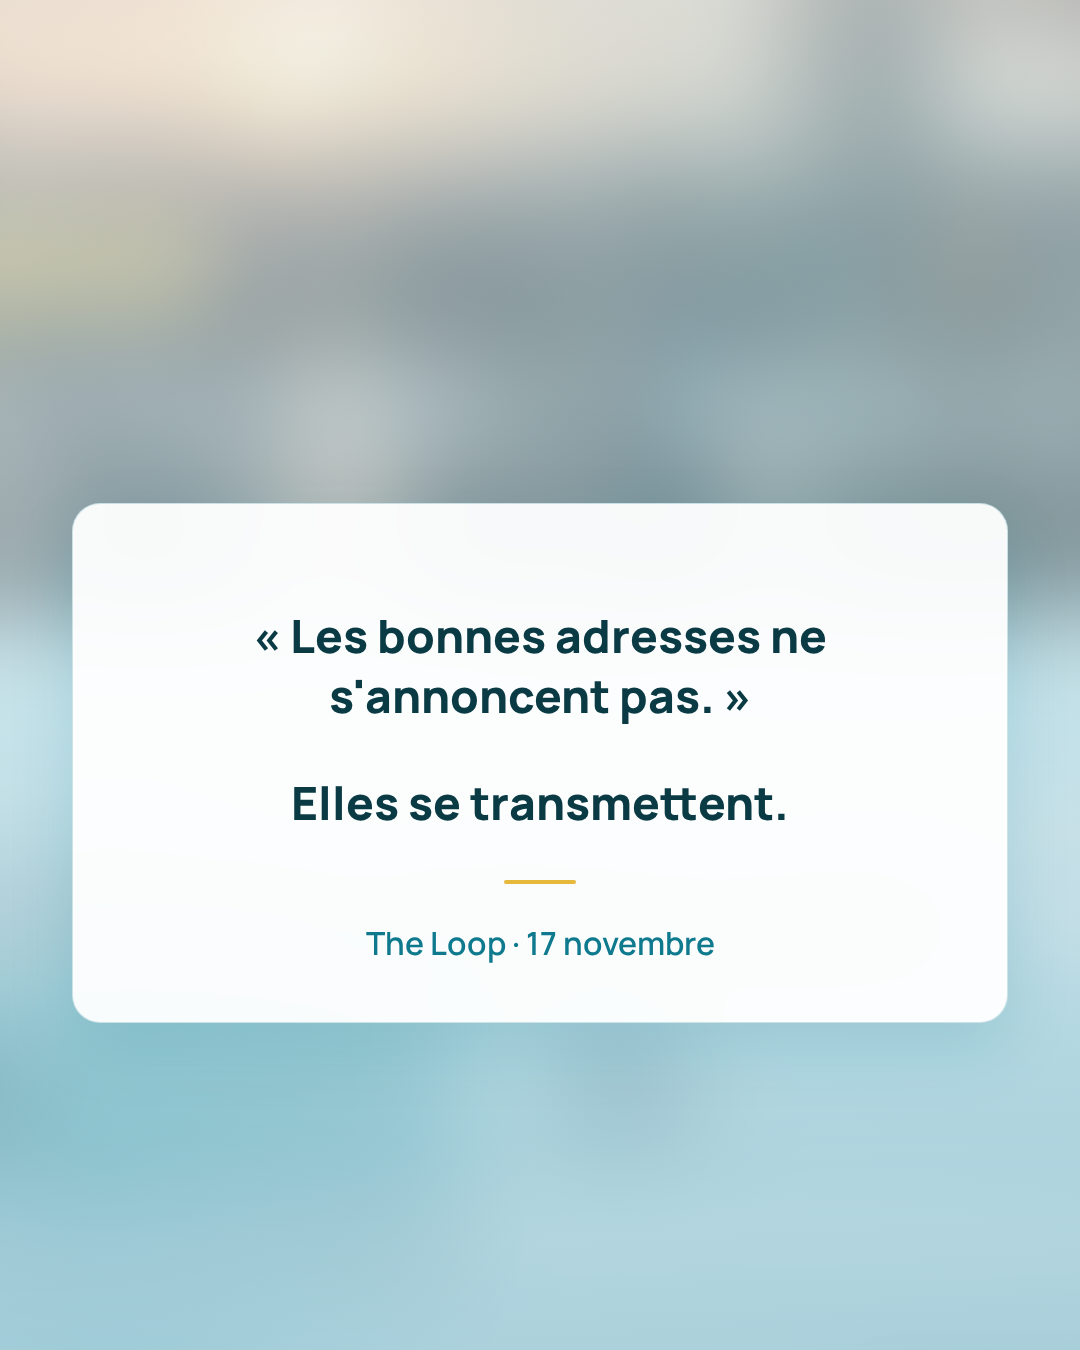
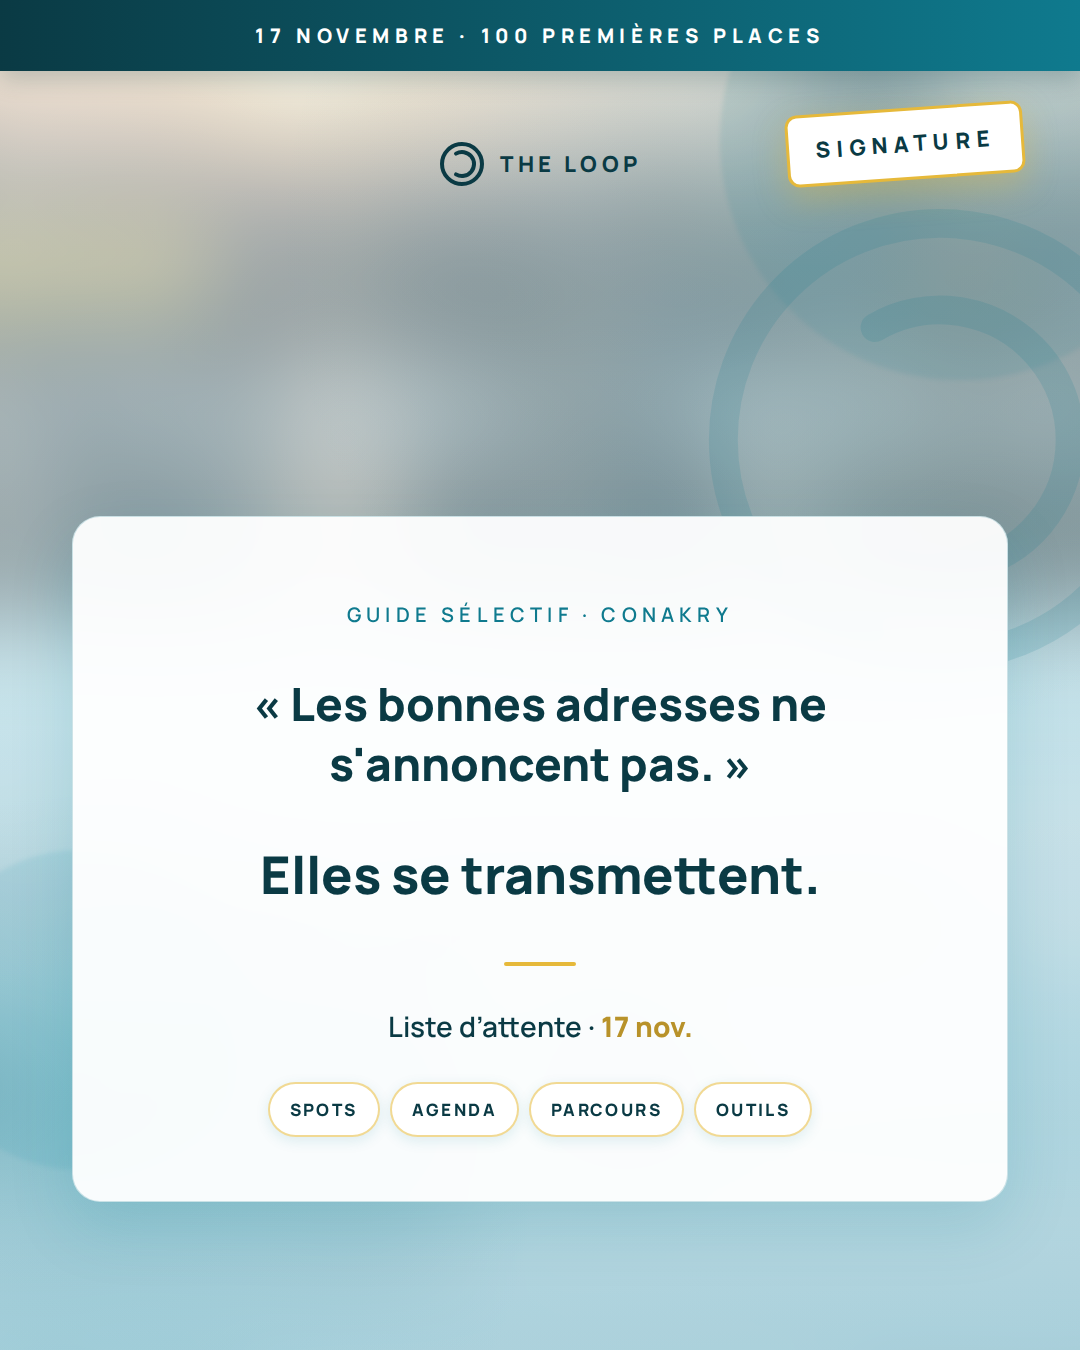
docs(com): fiche + visuel #2 signature 5/11 PUBLIER

diff --git a/docs/communication/lancement-2026/export-visuels-pack-acte-a-v4-light.html b/docs/communication/lancement-2026/export-visuels-pack-acte-a-v4-light.html
@@ -351,12 +351,24 @@
   <div class="slide">
     <div class="atmo" style="background-position:center 60%"></div>
     <div class="atmo-teal"></div>
-    <div class="inner" style="justify-content:center">
-      <div class="card" style="text-align:center">
+    <svg class="watermark" viewBox="0 0 36 36" fill="none"><circle cx="18" cy="18" r="15" stroke="#0F7A8E" stroke-width="2"/><path d="M 13.5 10.21 A 9 9 0 1 1 13.5 25.79" stroke="#0F7A8E" stroke-width="2" stroke-linecap="round"/></svg>
+    <div class="blobs"><div class="blob a"></div><div class="blob b"></div></div>
+    <div class="top-ribbon">17 novembre · 100 premières places</div>
+    <div class="stamp">SIGNATURE</div>
+    <div class="inner" style="justify-content:center;padding-top:140px">
+      <div class="mark-row" style="justify-content:center;margin-bottom:40px">
+        <svg width="48" height="48" viewBox="0 0 36 36" fill="none"><circle cx="18" cy="18" r="15" stroke="#0A3A44" stroke-width="3"/><path d="M 13.5 10.21 A 9 9 0 1 1 13.5 25.79" stroke="#0A3A44" stroke-width="3" stroke-linecap="round"/></svg>
+        <span>The Loop</span>
+      </div>
+      <div class="card" style="text-align:center;padding:64px 56px">
+        <p class="ey" style="margin-bottom:28px">Guide sélectif · Conakry</p>
         <p class="quote">« Les bonnes adresses ne s'annoncent pas. »</p>
-        <p class="quote gold" style="margin-top:16px">Elles se transmettent.</p>
-        <div class="rule" style="margin:36px auto"></div>
-        <p class="p" style="margin:0;color:var(--teal);font-weight:600">The Loop · 17 novembre</p>
+        <p class="quote gold" style="margin-top:20px;font-size:52px">Elles se transmettent.</p>
+        <div class="rule" style="margin:40px auto"></div>
+        <p class="p" style="margin:0;color:var(--deep);font-weight:600;font-size:28px">Liste d’attente · <span class="gold">17 nov.</span></p>
+        <div class="pillars" style="justify-content:center;margin-top:36px">
+          <span>Spots</span><span>Agenda</span><span>Parcours</span><span>Outils</span>
+        </div>
       </div>
     </div>
   </div>

diff --git a/docs/communication/lancement-2026/fiches/02-2026-11-05.md b/docs/communication/lancement-2026/fiches/02-2026-11-05.md
@@ -1,27 +1,42 @@
 # Fiche contenu #2 — Jeudi 5 novembre 2026
 
-## Checklist
-- [ ] Visuel
-- [ ] Légende
-- [ ] Pas de lien
+## Statut
+**Prêt à valider** — visuel v4 clair + légende ci-dessous.
+
+## Checklist publication
+- [ ] Visuel téléchargé
+- [ ] Légende copiée
+- [ ] **Pas de lien** (Acte A)
+- [ ] Story optionnelle
 - [ ] Publié
 
-## Objectif
-Ancrer la **signature** · teasing · rappel **17/11**.
+## Objectif narratif
+Après le **dilemme** (#1), on pose la **signature** de la marque : transmission, pas pub. On rappelle **17/11** et la promesse des **100 premières places** sans ouvrir la liste avant la date.
 
-## Visuel
-`03_5_11_Citation_sur_photo.png` (photo parcours + citation)
+## Visuel (feed 4:5)
+- **À poster :** `exports-png-v4-light/POST_5-11_citation-PUBLIER-5nov.png`
+- Même charte que #1 : fond teal, bandeau, citation centrée, piliers.
 
-## Légende
+## Légende (copier-coller)
 
 *Les bonnes adresses ne s'annoncent pas.*
 *Elles se transmettent.*
 
-**The Loop** — guide sélectif pour Conakry.
-Liste ouverte le **17 novembre** · **100 premières places** (accès anticipé).
+**The Loop** — guide **sélectif** pour Conakry : spots, agenda, parcours, outils.
 
-## Story
-Citation seule sur fond teal · pas de lien.
+Le **17 novembre**, ouverture de la liste d’attente et des **100 premières places** pour l’accès anticipé (**17 décembre**). D’ici là : on tease, on ne vend pas.
+
+## Story (option)
+- Fond teal uni ou recadrage de la citation sur l’image.
+- Texte : **Elles se transmettent.** · **17 nov.**
+- Pas de lien · pas de sticker « swipe up ».
+
+## Commentaires (si on te demande)
+- *« C’est quoi exactement ? »* → Un repère pour sortir et s’organiser à Conakry, curaté — pas un annuaire ouvert.
+- *« Je m’inscris où ? »* → **17 novembre** sur **theloop-app.com** (ne pas poster le lien avant).
 
 ## UTM
-Aucun.
+Aucun avant le 17/11.
+
+## Enchaînement
+Vendredi **6/11** : vidéo **Le dilemme du week-end** (voix off + montage CapCut, sans app lisible).
